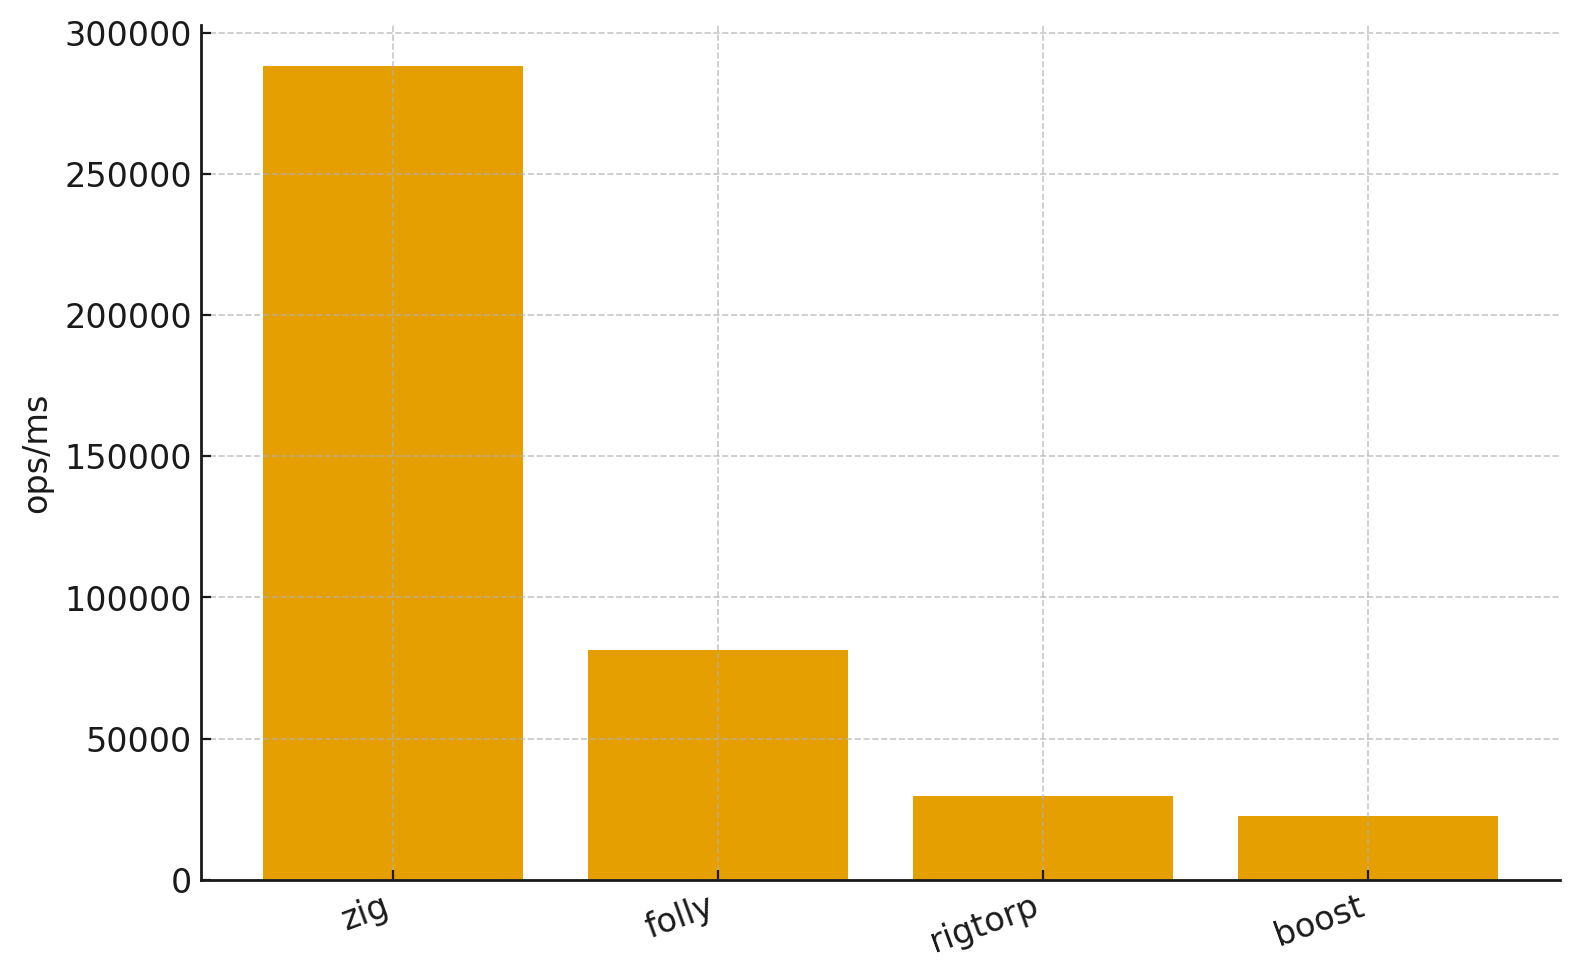
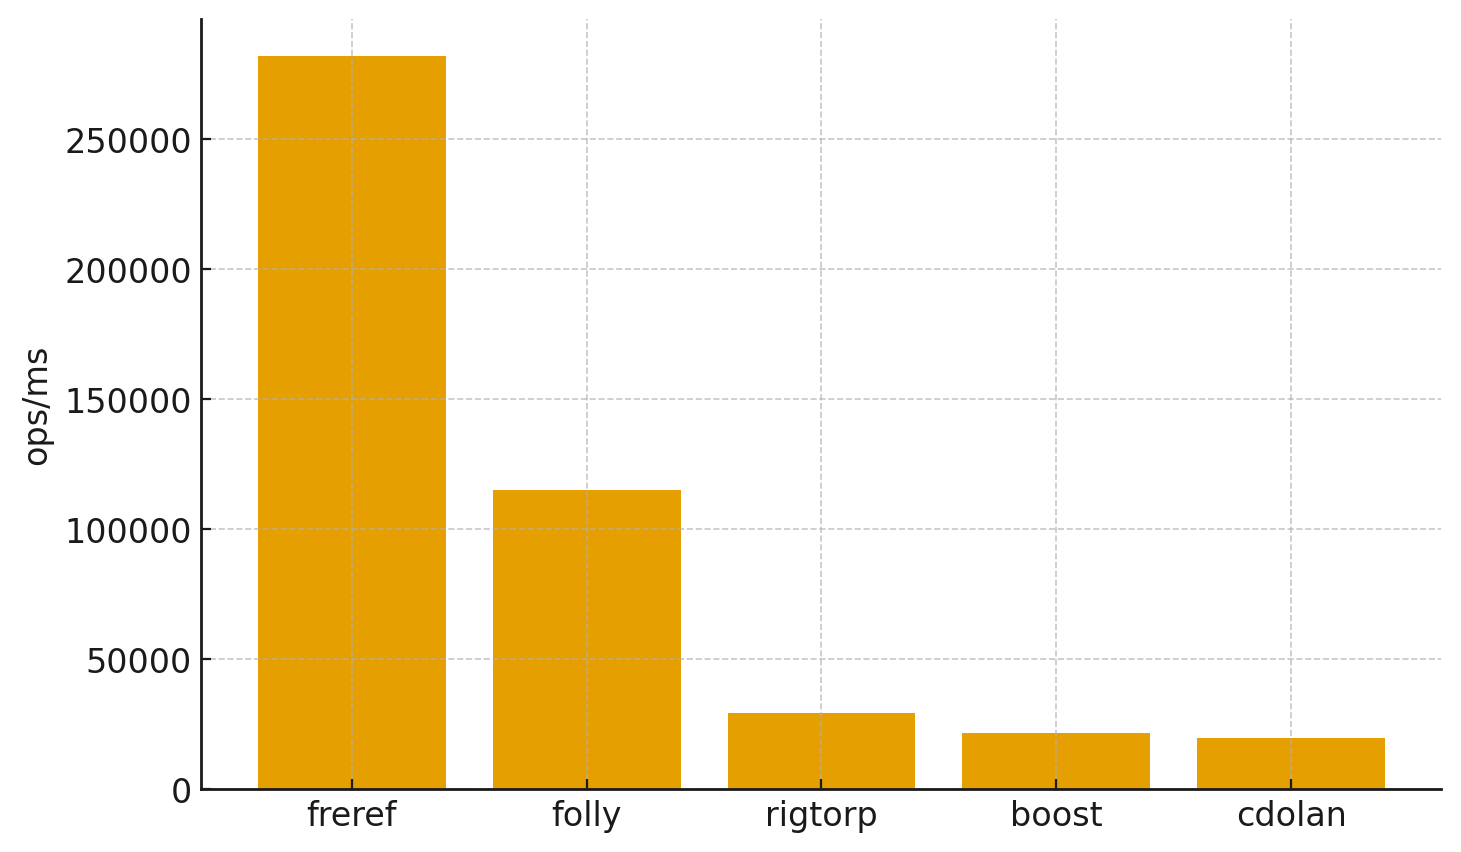
add: cdolan

diff --git a/cpp-spsc/src/SPSCQueueBenchmark.cpp b/cpp-spsc/src/SPSCQueueBenchmark.cpp
@@ -39,7 +39,7 @@ int main(int argc, char *argv[])
 
   using namespace rigtorp;
 
-  const size_t queueSize = 10000000;
+  const size_t queueSize = 16777216;
   const int64_t iters = 10000000;
 
   std::cout << "SPSCQueue:" << std::endl;

diff --git a/README.md b/README.md
@@ -1,7 +1,15 @@
 # spsc-queue-benchmark
 Benchmarking suite for various single producer single consumer (SPSC) queue implementations. Feel free to add more implementations and open a PR.
+
 > [!NOTE]
 > This project exists to support [my SPSC queue implementation in Zig](https://github.com/freref/spsc-queue).
+
+We are currently benchmarking the following implementations:
+- [freref/spsc-queue](https://github.com/freref/spsc-queue)
+- [*boost::lockfree::spsc*](https://www.boost.org/doc/libs/1_76_0/doc/html/boost/lockfree/spsc_queue.html)
+- [*folly::ProducerConsumerQueue*](https://github.com/facebook/folly/blob/master/folly/docs/ProducerConsumerQueue.md)
+- [rigtorp/SPSCQueue](https://github.com/rigtorp/SPSCQueue/tree/master)
+- [cdolan/zig-spsc-ring](https://github.com/cdolan/zig-spsc-ring.git)
 ## Results
 The benchmarks were run on a MacBook Pro (Apple M4 Pro, 14 cores: 10 performance + 4 efficiency) with 48 GB unified memory.
 ![Benchmark bar chart](./benchmarks.png)
